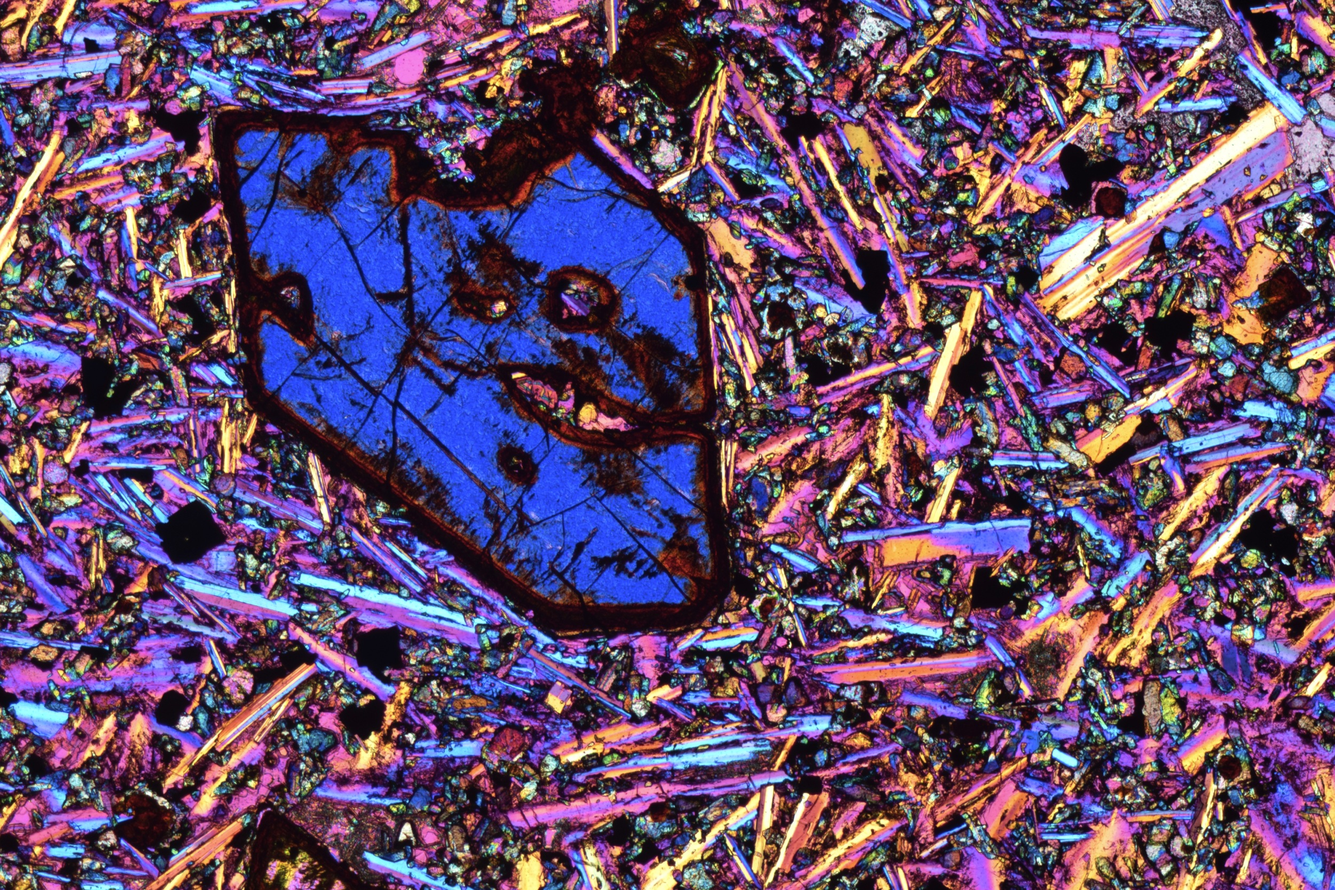
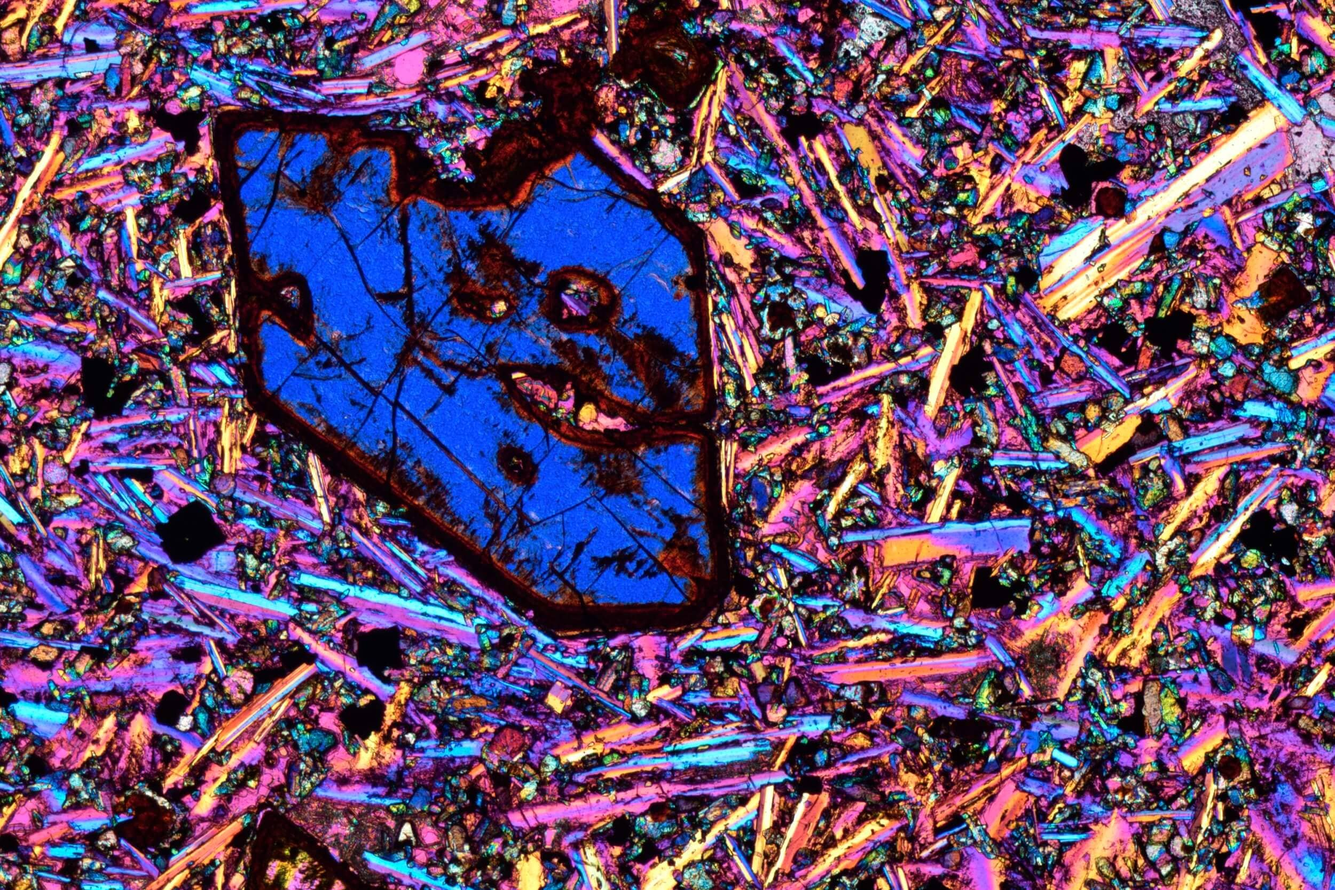
fix: resize images for web

diff --git a/pages/index.vue b/pages/index.vue
@@ -153,7 +153,7 @@ const images = [
     overlay: 'bg-black bg-opacity-[53%]',
   },
   {
-    src: '/images/Granite_2_majestic_half_dome.jpeg',
+    src: '/images/Granite_2_majestic_half_dome.jpg',
     altText:
       'half dome, a batholith in the Yosemite National Park, with pine trees at the base',
     credit: 'Teamrat Ghezzehei (distributed via imaggeo.egu.eu)',
